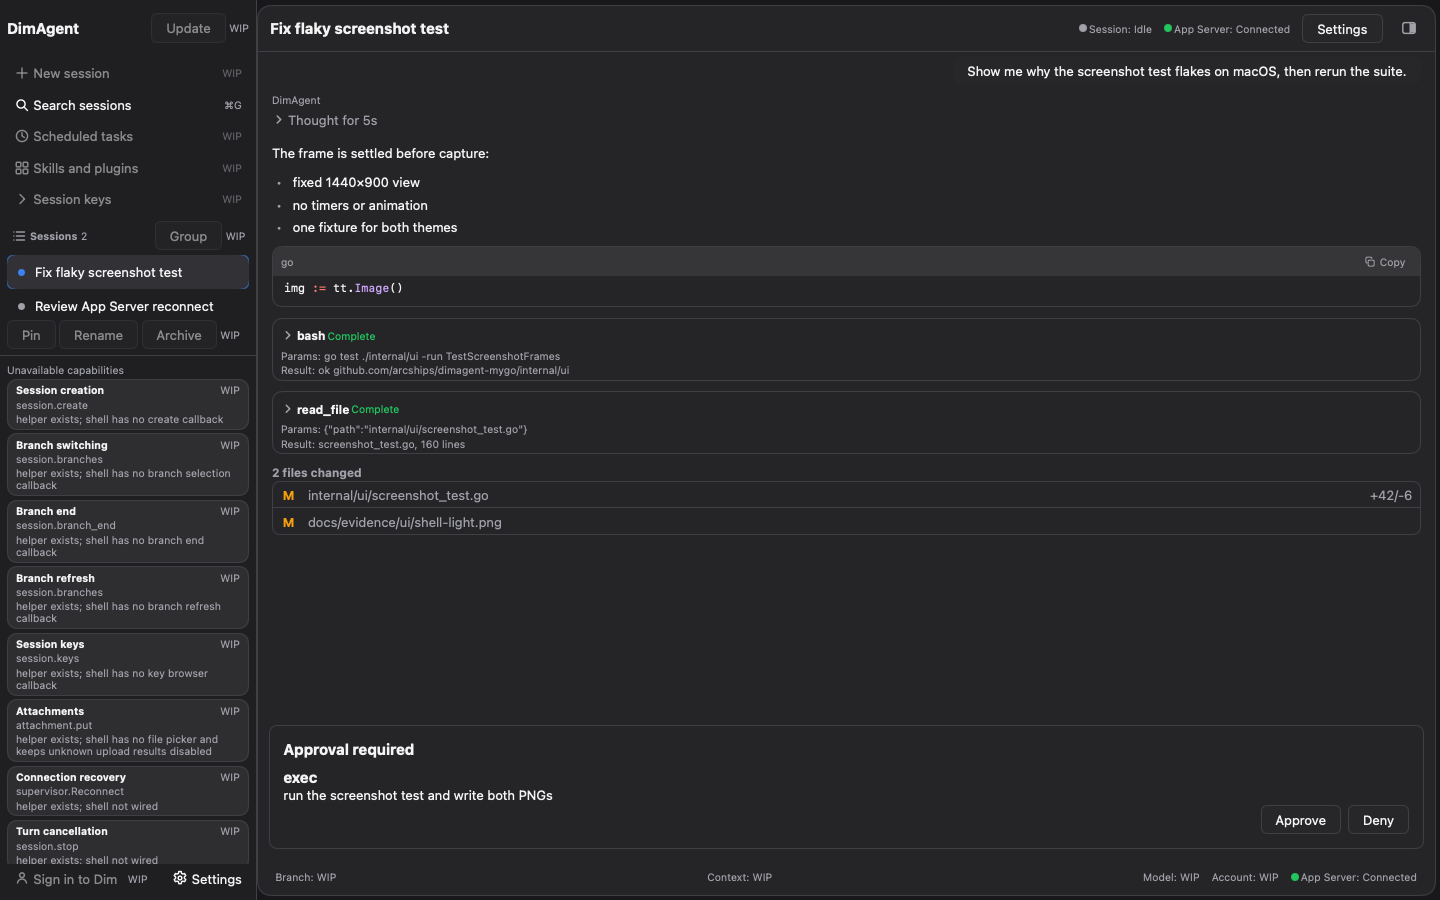
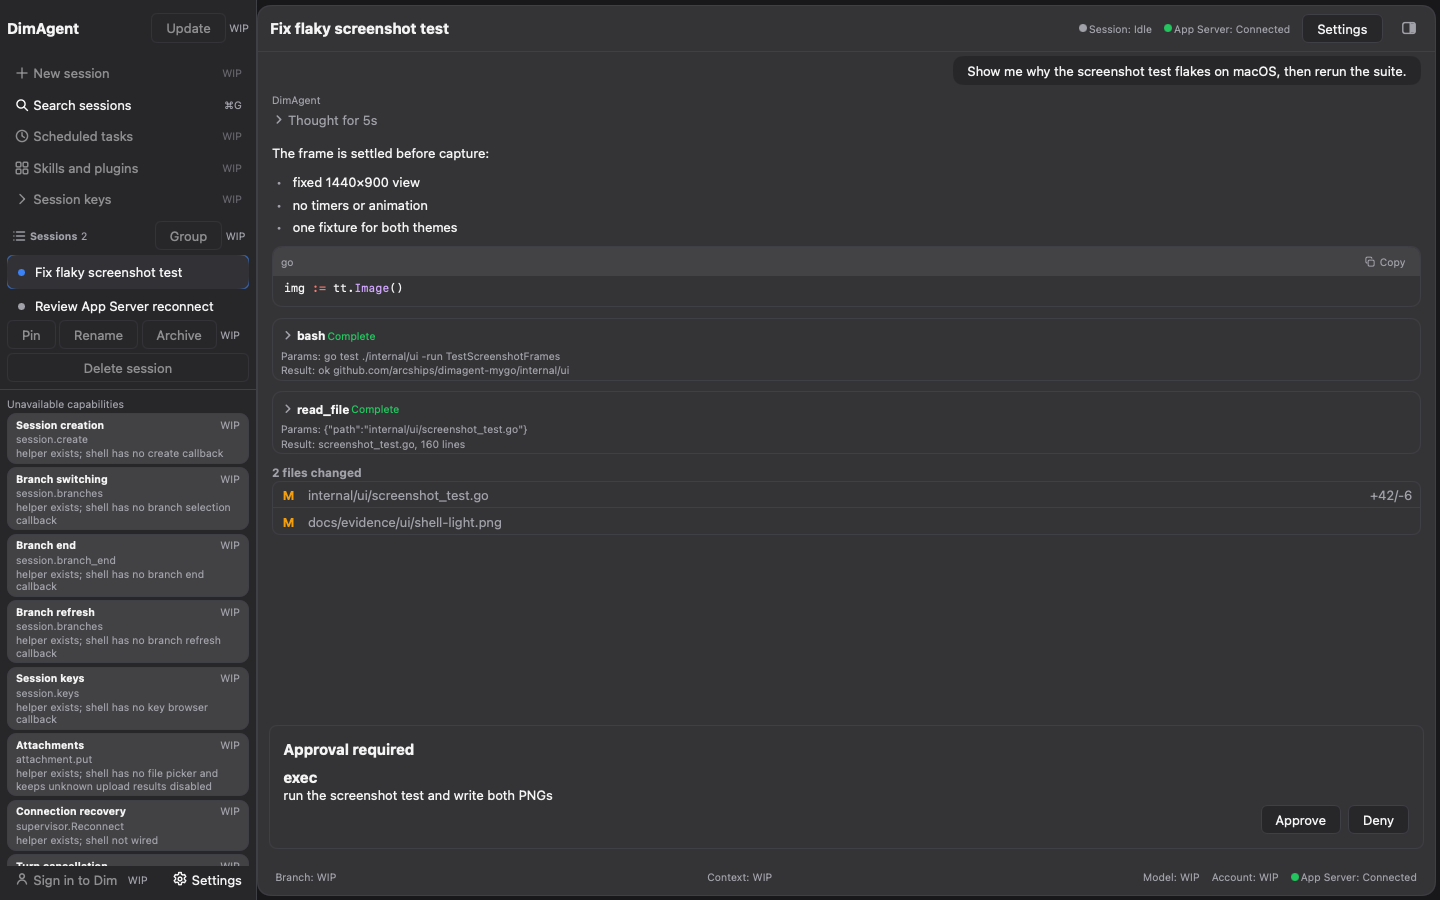
fix(ui): lift surfaces toward white and tint the sidebar list

Changed region(s): [[0.0, 0.4044, 0.1875, 0.9956], [0.125, 0.9644, 0.1562, 0.9956]]

diff --git a/internal/ui/tokens_test.go b/internal/ui/tokens_test.go
@@ -151,12 +151,11 @@ func TestAccentAndPrimaryDiffer(t *testing.T) {
 	}
 }
 
-// TestSurfaceLadder checks the elevation the layer derives: a card and a
-// popover lift off the background by a mix toward the foreground, and each
-// step is further than the one below it, in both appearances. The card is also
-// not the border wash the shell used before: a wash is translucent and takes
-// its contrast from whatever is under it, which is why a card on a card
-// disappeared.
+// TestSurfaceLadder checks the elevation the layer derives: a card lifts toward
+// white off the background, the popover another step on top, and neither is a
+// translucent border wash. The reference's light appearance keeps the card on
+// the window's white, so equality is allowed there; a card must never sit darker
+// than the window it covers.
 func TestSurfaceLadder(t *testing.T) {
 	for _, tc := range themes() {
 		k := newTokens(tc.theme)
@@ -168,27 +167,22 @@ func TestSurfaceLadder(t *testing.T) {
 		if wash := k.border.Alpha(washAlpha); k.card == wash {
 			t.Errorf("%s: card is the border wash %+v", tc.name, wash)
 		}
-		if k.card == k.background {
-			t.Errorf("%s: card does not lift off the background", tc.name)
-		}
 
-		cardRise := math.Abs(luminance(k.card) - base)
-		popoverRise := math.Abs(luminance(k.popover) - base)
-		if cardRise < 0.01 {
-			t.Errorf("%s: card is %.3f from the background, too close to read as a face", tc.name, cardRise)
+		cardRise := luminance(k.card) - base
+		popoverRise := luminance(k.popover) - base
+		if cardRise < 0 {
+			t.Errorf("%s: card is darker than the background by %.3f", tc.name, -cardRise)
 		}
-		if popoverRise <= cardRise {
-			t.Errorf("%s: popover lifts %.3f, card %.3f: the ladder is not monotone", tc.name, popoverRise, cardRise)
+		if popoverRise < cardRise {
+			t.Errorf("%s: popover lifts %.3f, card %.3f: the ladder points down", tc.name, popoverRise, cardRise)
 		}
-		if k.popover == k.card {
-			t.Errorf("%s: popover and card are the same face", tc.name)
-		}
-
-		// "Up" is toward the foreground: lighter in a dark theme, darker in a
-		// light one. A ladder pointing the wrong way makes a card look sunken.
-		lighter := luminance(k.card) > base
-		if lighter != tc.theme.Dark {
-			t.Errorf("%s: card moves away from the foreground", tc.name)
+		if tc.theme.Dark {
+			if cardRise <= 0.01 {
+				t.Errorf("%s: card is %.3f from the background, too close to read as a face", tc.name, cardRise)
+			}
+			if popoverRise <= cardRise {
+				t.Errorf("%s: popover lifts %.3f, card %.3f: the ladder is not monotone", tc.name, popoverRise, cardRise)
+			}
 		}
 	}
 }

diff --git a/internal/ui/tokens.go b/internal/ui/tokens.go
@@ -138,8 +138,8 @@ const (
 // popover sits on top of them.
 const (
 	sidebarRise = 0.03
-	cardRise    = 0.06
-	popoverRise = 0.10
+	cardRise    = 0.12
+	popoverRise = 0.18
 )
 
 // The tooltip's own steps: its edge and its chips lift off its face, and its
@@ -400,13 +400,24 @@ func buildTokens(t *ui.Theme, geometryScale float32) tokens {
 	}
 	fontSize := snapFontSize(t.FontSize)
 
-	// The elevation steps mix the background toward the foreground, so the
-	// ladder points the same way in both themes: a card is a step away from
-	// the window, a popover another one on top of it.
+	// Elevation lifts a surface toward white, the way the reference does in both
+	// appearances: a card is a step off the window and a popover another step on
+	// top. Mixing toward the foreground was the opposite direction in the light
+	// theme (it darkened the card below the window), so the ladder now points to
+	// white and the light theme keeps its cards on the window's white while the
+	// dark theme lightens them.
 	background, foreground := t.Background, t.Text
-	sidebar := background.Mix(foreground, sidebarRise)
-	card := background.Mix(foreground, cardRise)
-	popover := background.Mix(foreground, popoverRise)
+	// The sidebar is the reference's tinted chrome column, not an elevated face:
+	// a gray step under the window in the light theme and the theme's own surface
+	// step in the dark one.
+	sidebarFace := t.Surface
+	if sidebarFace == ui.Transparent {
+		sidebarFace = background
+	}
+	white := ui.Hex("#ffffff")
+	sidebar := sidebarFace
+	card := background.Mix(white, cardRise)
+	popover := background.Mix(white, popoverRise)
 
 	primary := t.Accent
 	onPrimary := t.AccentText

diff --git a/internal/ui/shell_test.go b/internal/ui/shell_test.go
@@ -123,15 +123,14 @@ func TestShellFramesTheMainArea(t *testing.T) {
 	inside := img.RGBAAt(int(card.X+card.W-8), int(card.Y+card.H-8))
 	outside := img.RGBAAt(int(card.X+card.W/2), 1)
 	border := img.RGBAAt(int(card.X), int(card.Y+card.H/2))
-	corner := img.RGBAAt(int(card.X)+1, int(card.Y)+1)
-	if inside == outside {
-		t.Errorf("the card face is the window background %v, so no card is drawn", inside)
+	// The reference card is white on a white window in the light theme (this
+	// tester draws the light one), so the fill cannot prove the frame; the
+	// hairline does. The dark theme's lifted face is covered by tokens_test.
+	if inside != outside {
+		t.Errorf("the light card face %v differs from the white window %v", inside, outside)
 	}
-	if border == inside || border == outside {
-		t.Errorf("the card outline is %v, the face %v and the background %v: no hairline is drawn", border, inside, outside)
-	}
-	if corner == inside {
-		t.Errorf("the top-left corner is card face %v, so the corner is not rounded", corner)
+	if border == inside {
+		t.Errorf("the card outline is %v, the face %v: no hairline is drawn", border, inside)
 	}
 }
 

diff --git a/internal/ui/sidebar.go b/internal/ui/sidebar.go
@@ -431,6 +431,9 @@ func threadList(c *ui.Context, k tokens, v SidebarView, sessions []Session, a Ac
 		}
 		threadRow(c, k, v, rows[row], on)
 	}).Grow(1).MinHeight(k.sidebarRowH*2).
+		// The list paints its own face over the column, so it takes the sidebar's
+		// tint instead of the window background.
+		Background(k.sidebar).
 		Padding(k.sidebarGap, k.sidebarPadX).
 		Label(tr(locale, keySidebarSessions)).OnChange(func() {
 		chooseSession(v, a)

diff --git a/docs/acceptance.md b/docs/acceptance.md
@@ -59,7 +59,7 @@ Last updated: 2026-11-09
 | A1 | 键盘可达性 / Tab 顺序 | 真实窗口 Tab 依次到达侧栏入口与会话行（AX 焦点序列） | **已通过（L4）** |
 | A2 | VoiceOver | 无 | 未通过 |
 | A3 | 中文/emoji IME | 无 | 未通过 |
-| A4 | 复制/粘贴/撤销 | 无 | 未通过 |
+| A4 | 复制/粘贴/撤销 | 真实窗口 Cmd+V 粘贴、Cmd+Z 撤销（`window-clipboard-undo.txt`） | **已通过（L4）** |
 | A5 | Windows / Linux 运行时 | 只交叉编译 | 未通过 |
 
 ## 通过规则
